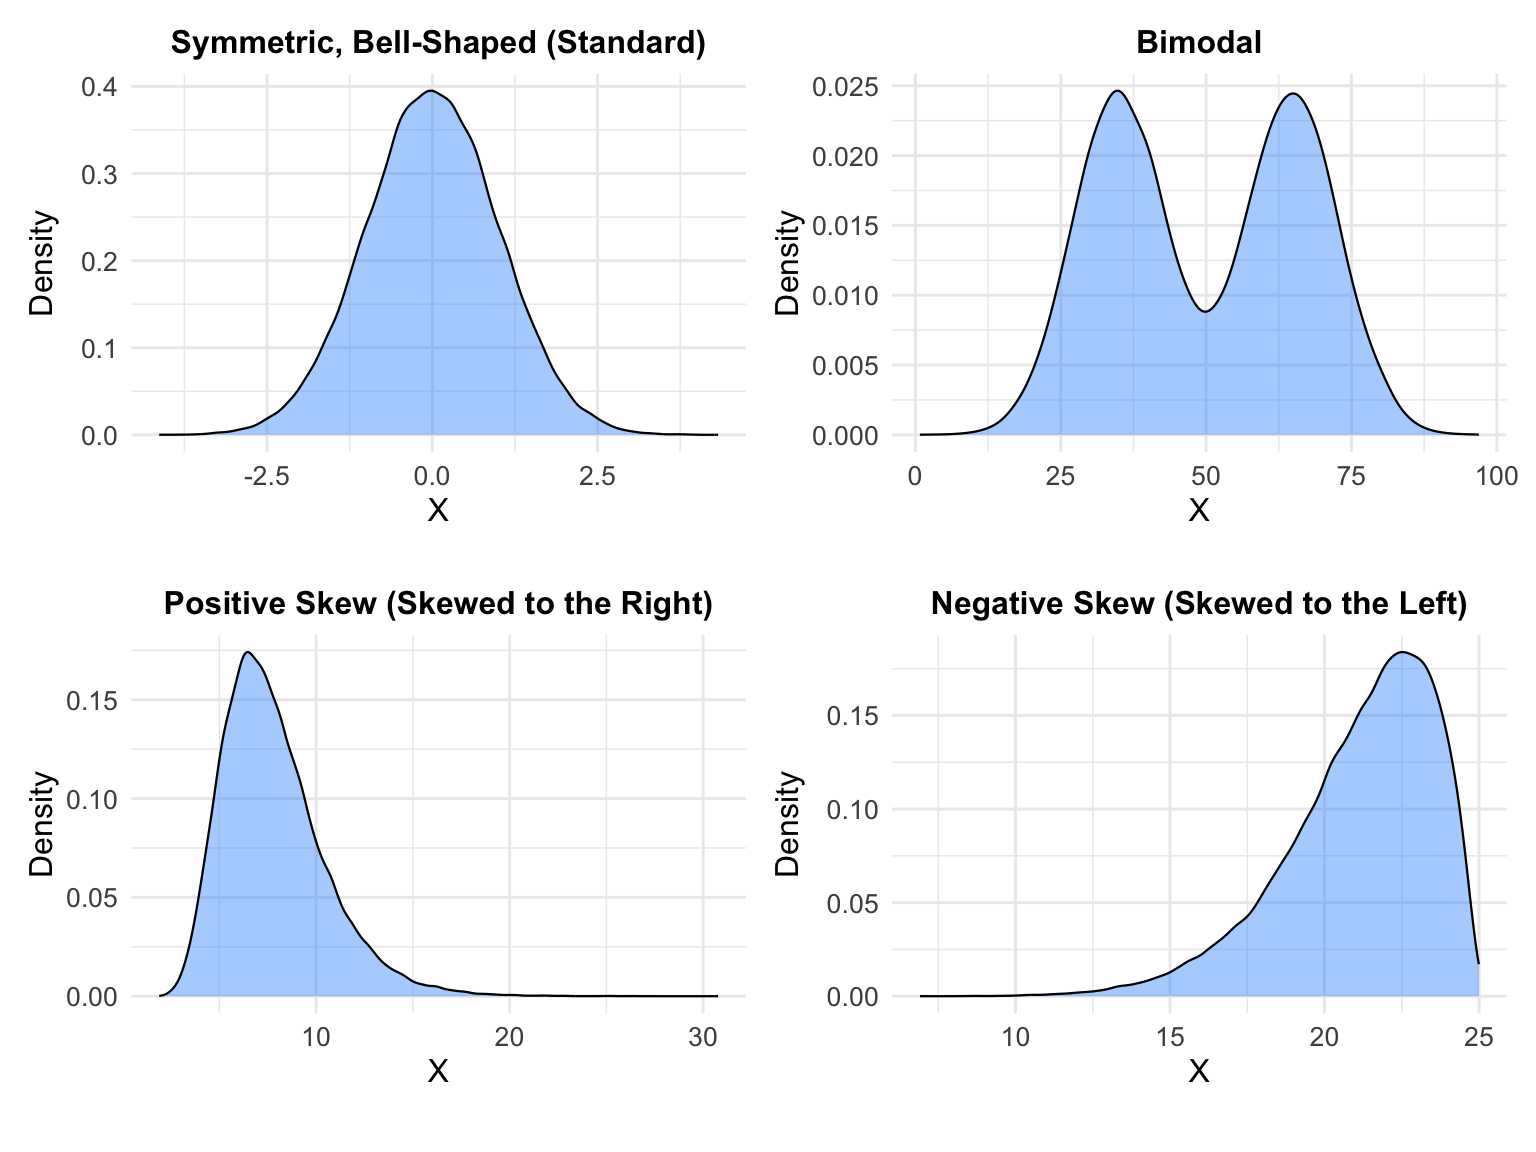
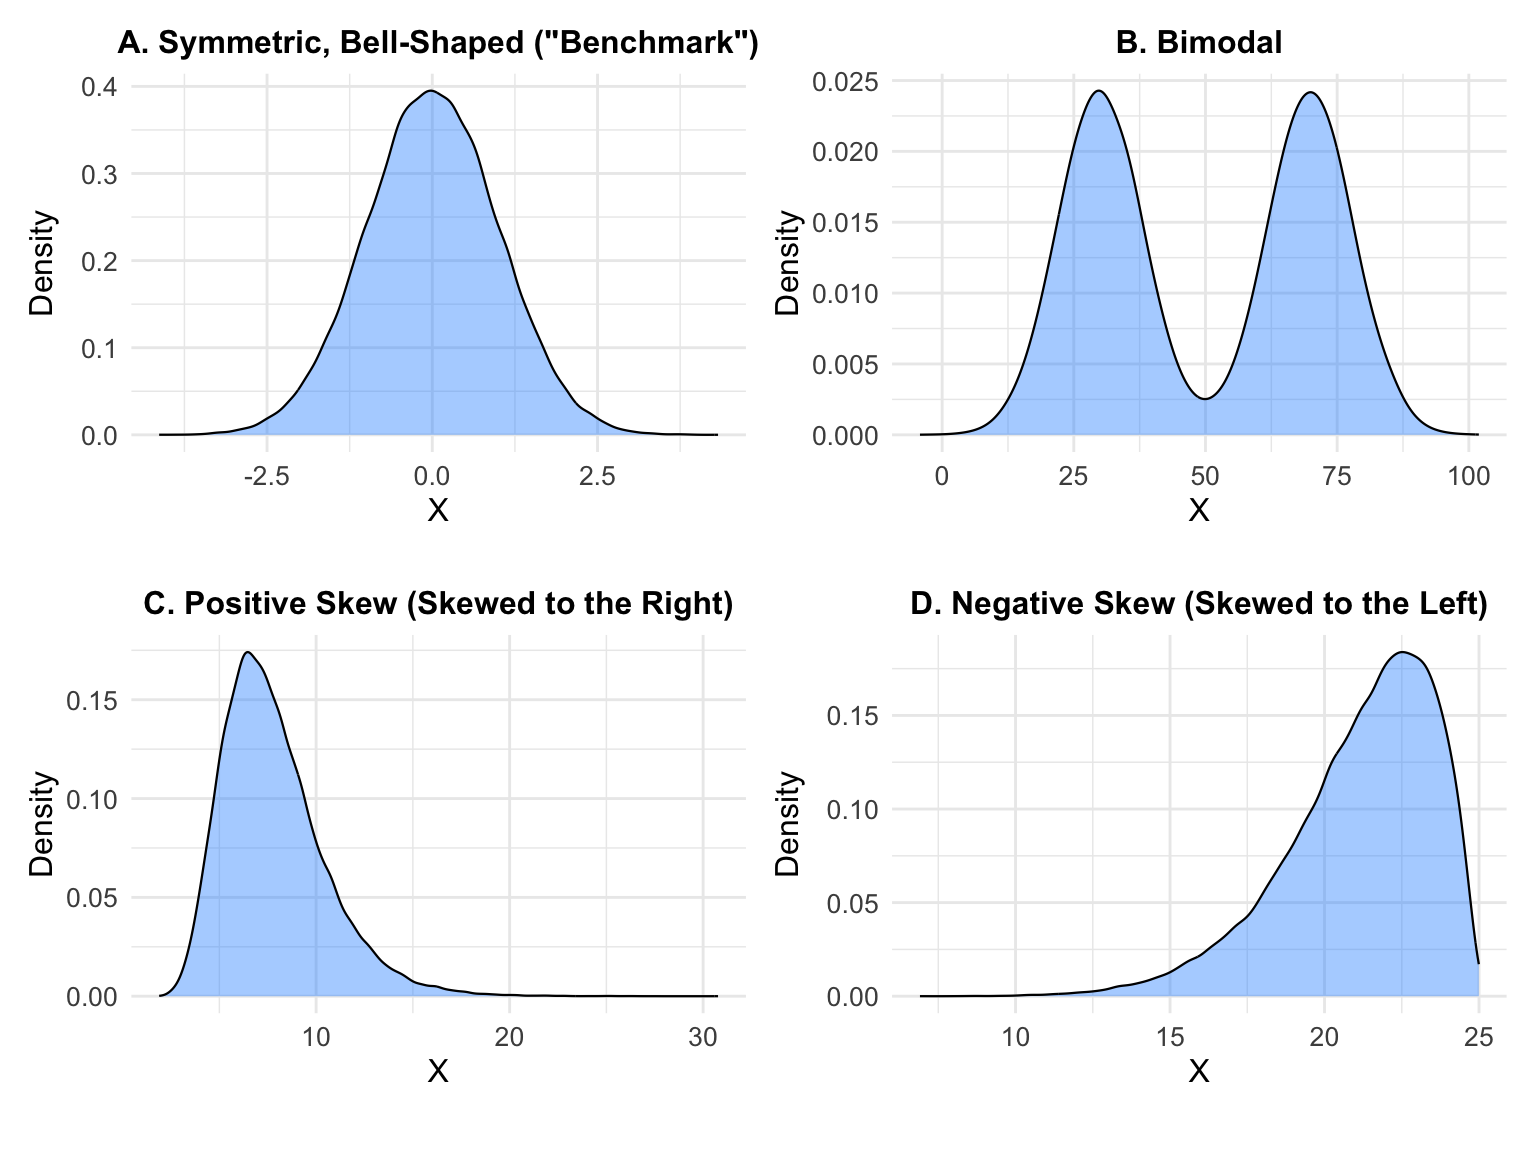
a22

diff --git a/dataps/dataviz.html b/dataps/dataviz.html
@@ -641,7 +641,7 @@ window.Quarto = {
 </section>
 <section id="sec-uni" class="level2" data-number="4.2">
 <h2 data-number="4.2" class="anchored" data-anchor-id="sec-uni"><span class="header-section-number">4.2</span> Univariate Graphical Displays</h2>
-<p>Univariate graphical displays provide a visual means of describing a variable’s <em>central tendency</em> and <em>dispersion</em>, or <em>distribution</em>. We will eventually link these visual descriptions with more formal statistical descriptions in <a href="descriptive.html" class="quarto-xref"><span>Chapter 6</span></a>. Researchers want to summarize variables of interest both as a way of understanding those variables generally and also for reasons connected to appropriate ways to examine variables with more formal statistical procedures. Thus, data visualization facilitates appropriate statistical analysis. As I will discuss in greater detail, univariate graphs are also directly connected to <em>levels of measurement</em> (à la <a href="intro.html#sec-lom" class="quarto-xref"><span>Section 2.2.3</span></a>) both in terms of the foundations for what type of graph to use and the implications for types of information we want to report and statistical analyses we want to conduct.</p>
+<p>Univariate graphical displays provide a visual means of describing a variable’s <em>central tendency</em> and <em>dispersion</em>, or <em>distribution</em>. We will eventually link these visual descriptions to more formal statistical descriptions in <a href="descriptive.html" class="quarto-xref"><span>Chapter 6</span></a>. Researchers want to summarize variables of interest both as a way of understanding those variables generally and also for reasons connected to appropriate ways to examine variables with formal statistical procedures. Thus, data visualization facilitates appropriate statistical analysis. As I will discuss in greater detail, univariate graphs are also directly connected to <em>levels of measurement</em> (à la <a href="intro.html#sec-lom" class="quarto-xref"><span>Section 2.2.3</span></a>) both in terms of the foundations for what type of graph to use and the implications for types of information we want to report and statistical analyses we want to conduct.</p>
 <section id="dispersion" class="level3" data-number="4.2.1">
 <h3 data-number="4.2.1" class="anchored" data-anchor-id="dispersion"><span class="header-section-number">4.2.1</span> Dispersion</h3>
 <p>Dispersion describes how spread out or close together observations are on values of the variable. Many researchers will also describe dispersion relative to the central tendency, or the average value. Are many of the observations tightly packed around the average value or are they widely dispersed around the mean? This diserpsion can also communicate how informative the central tendency is as a generalization. The more dispersion, the less informative a central tendency’s generalization is. The lower the dispersion, the more informative the generalization is.</p>
@@ -688,7 +688,9 @@ window.Quarto = {
 </div>
 <p>First, the left graph is the one that we analyzed earlier (“mynorm”). The right graph is based a second random number I simulated using the code above. Instead of a standard deviation of 1, I specified a standard deviation of 2. Thus, this variable is a random variable derived from a normal distribution with mean=0 and standard deviation=2. By definition, we know that this second variable will have a higher degree of dispersion. From the “rules of standard deviation” (that we will discuss in <a href="descriptive.html" class="quarto-xref"><span>Chapter 6</span></a>), we know that 95% of all observations are within about 2 standard deviations from the mean. In the left graph, that means 95% of observations are <span class="math inline">\(\pm\)</span> 2 units from the mean (between -2 and 2, since the mean = 0). In the right graph, 95% of the observations are <span class="math inline">\(\pm\)</span> 4 units from the mean (between -4 and 4).</p>
 <p>Comparing the graphs brings these comparisons to “visual life.” The left graph is a “high and tight” distribution, where observations are packed around the mean and many observations are at or very close to the mean value (of 0). The right graph is “lower and flatter,” where observations are more spread out around a wider range of the “score” variable. Note that much fewer observations at or near the mean vis-à-vis the low height of the curve at and around the mean. The high and tight, low-dispersion left grahp also shows that the mean is more informative generalization of the “score” variable than the low and flat, high-dispersion graph on the right.</p>
-<p>Though these graphs differ in the amount of dispersion, they share another key feature of what we want to visualize in univariate graphs: Whether or not the variable’s distribution is symmetric, bell-shaped, and “single-peaked.” In many ways, univariate data visualization centers on ascertaining whether our univariate distribution deviates from such a symmetric, bell-shaped, and single peaked distribution like those above. Here are three such common deviations compared to the “standard” bell-shaped distribution:</p>
+<p>Another way to talk about these variations in dispersion is in terms of “homogeneity” and “hetergeneity.” The left graph shows a much more homogeneous set of observations on this characteristic (“score”); many people tend to resemble each other. The right graph shows more heterogeneity; people are generally quite different from each other on this characteristic.</p>
+<p>Though these graphs differ in the amount of dispersion, they share a key feature of what we want to visualize in univariate graphs: Whether or not the variable’s distribution is symmetric, bell-shaped, and “single-peaked.” In many ways, univariate data visualization centers on ascertaining whether our univariate distribution deviates from such a symmetric, bell-shaped, and single peaked distribution like those above. The graphs below show three such common deviations compared to the “standard” bell-shaped distribution.</p>
+<p>Graph A provides a “benchmark” for comparison — the distribution is bell-shaped, symmetric, and “single-peaked,” or unimodal. This last aspect means that there’s just one central tendency. By benchmark, I do not mean that this is an “ideal” or desirable distribution to have for your own variables. In fact, variables rarely resemble exactly such a well-behaved distribution. Data can be messy. However, the properties I have discussed surrounding this distribution provide key points of comparison and discussion when describing a variable.</p>
 <div class="cell" data-layout-align="center">
 <div class="cell-output-display">
 <div class="quarto-figure quarto-figure-center">
@@ -698,9 +700,65 @@ window.Quarto = {
 </div>
 </div>
 </div>
+<p>Graph B shows one important deviation from the normal distribution in graph A: It is a bimodal distribution. Instead of having just one central tendency, it has two. In politics, for instance, we are often interested in the distribution of voters’ policy preferences across policy issues like immigration, gun control, economics, abortion rights, and the environment. Graph A depicts a situation where there is <em>public consensus</em> around a more moderate policy position. It suggests a consensus could emerge between Democrats and Republicans on a compromise.</p>
+<p>Graph B, however, shows the absence of consensus: It depicts <em>polarization</em> on an underlying issue, with two groups — Democrats and Republicans — advancing very different policy preferences on an issue. Very few people take a middle position, meaning compromise is unlikely. In American politics, we often say that this is recipe for “gridlock” in Congress or other settings. Beyond this example, a bimodal distribution suggests the presence of distinct groupings of individuals. We may see this in approval ratings or candidate evaluations, where there may be one group that is highly approving of a candidate or policy and another that is disapproving. Some will intepret such graphs as saying the public is of “two minds.”</p>
+<p>Graphs C and D display “skewed” variables. Skewness is a clear deviation from graph A’s “symmetry” property. Graph C shows that the mass of observations is tilted to the lower end of X, and there small amounts of observations at very high values of X. These “outliers” at the high end (the “extremes”) are what generate the skewness. Graph C is thus called a “positively skewed” variable, or “skewed to the right.” This latter description may initially confuse readers — after all, the mass of observations is shifted to the “left.” But the “skewed to the right” is describing the direction of the skewness as in the above description of how the more high-value outliers on the “right” side (or high end of X) are generating the skewness. Income or GDP measures are classic positively skewed variables. Imagine Graph C describes something like household income in the United States. The mass of individuals will be packed around some more typical value but there will be many high-income and then ultra-wealthy individuals at the very high ends. These outliers pull that right tail out to high ends. There are very few people at that high end, but we cannot just cut them off.</p>
+<p>Graph D presents the opposite direction of skewness: Negative skew, or skewed to the left. Here, the mass of observations are tilted to the right, with the more extreme outlier observations skewing the distribution to the left, on the low end X. An example of a negatively skewed variable is human lifespan, or age of death, around the world. In today’s age, life expectancy represents the typical age (central tendency) people will live to. If worldwide life expectancy is around 75 years of age, there are lots of observations that will be packed around that central tendency. However, we know that some people defy life expectancy and die young due to health problems or untimely accidents. Those individuals low on X are the outliers that skew the variable.</p>
+<p>The ultimate value of data visualization is the ability to diagnose the nature of a variable’s distribution before one begins doing statistical analysis on that variable or analysis in conjunction with another variable. The nature of a variable’s dispersion and distribution essentially dictates how we interpret central tendency (as <a href="descriptive.html" class="quarto-xref"><span>Chapter 6</span></a> will discuss in greater detail). Moreover, for some variables (like in graphs B-D), it makes more sense to describe the variable in terms of dispersion and distribution <em>first</em> before describing its central tendency. If one has a variable with a bimodal distribution, one should describe it that way first. That’s the key characteristic of the variable that one wants to communicate. Data visualization gives us that interpretation. Same with skewness: The first thing we want to say about graph C is that it is positively skewed.</p>
+<p>These descriptions set up a critical step in describing a skewed variable’s central tendency and dispersion, where one wants to think of skewed variables in terms of percentiles: The median, or 50th percentile, as well as the 25th and 75th percentiles for dispersion. These percentiles are more “immune” from the skewness induced by extreme values and outliers, whereas skewness directly affects statistics like the mean and standard deviation. Once again, <a href="descriptive.html" class="quarto-xref"><span>Chapter 6</span></a> will cover these topics in greater depth.</p>
 </section>
 <section id="univariate-graphs-and-levels-of-measurement" class="level3" data-number="4.2.2">
 <h3 data-number="4.2.2" class="anchored" data-anchor-id="univariate-graphs-and-levels-of-measurement"><span class="header-section-number">4.2.2</span> Univariate Graphs and Levels of Measurement</h3>
+<p>Let’s now dive into types of univariate graphs used to describe variables. Importantly, the selection of the graph to use is directly connected to levels of measurement. For example, the density plots from above are clearly most appropriate for interval/continuous variables. It would make zero sense to do a density plot for a nominal (unordered) variable with 4 or 5 discrete categories. It <em>may</em> make sense, under certain circumstances, to do density plots for ordinal variables with several categories — these variables can sometimes be in a gray area.</p>
+<p>The table below provides a summary of the univariate graphs we will examine in this section and a description of what types of variables for which they are most appropriate (based on levels of measurement).</p>
+<center>
+<div id="tbl-univ" class="table-striped table-hover table-bordered table-sm column quarto-float quarto-figure quarto-figure-center anchored" style="width:70%;">
+<figure class="quarto-float quarto-float-tbl figure">
+<figcaption class="quarto-float-caption-top quarto-float-caption quarto-float-tbl" id="tbl-univ-caption-0ceaefa1-69ba-4598-a22c-09a6ac19f8ca">
+Table&nbsp;4.1: <strong>Summary of Univariate Graphs</strong>
+</figcaption>
+<div aria-describedby="tbl-univ-caption-0ceaefa1-69ba-4598-a22c-09a6ac19f8ca">
+<table class="table-striped table-hover table-bordered table-sm column small caption-top table">
+<colgroup>
+<col style="width: 30%">
+<col style="width: 40%">
+<col style="width: 30%">
+</colgroup>
+<thead>
+<tr class="header">
+<th style="text-align: left;">Univariate Graph</th>
+<th style="text-align: left;">Command (<code>geom_</code>)</th>
+<th style="text-align: left;">Level of Measurement</th>
+</tr>
+</thead>
+<tbody>
+<tr class="odd">
+<td style="text-align: left;">Density plot</td>
+<td style="text-align: left;"><code>geom_density</code></td>
+<td style="text-align: left;">Interval</td>
+</tr>
+<tr class="even">
+<td style="text-align: left;">Histogram</td>
+<td style="text-align: left;"><code>geom_histogram</code></td>
+<td style="text-align: left;">Interval</td>
+</tr>
+<tr class="odd">
+<td style="text-align: left;">Boxplot</td>
+<td style="text-align: left;"><code>geom_boxplot</code></td>
+<td style="text-align: left;">Interval</td>
+</tr>
+<tr class="even">
+<td style="text-align: left;">Bar graph</td>
+<td style="text-align: left;"><code>geom_bar</code> or <code>geom_col</code></td>
+<td style="text-align: left;">Ordinal or nominal</td>
+</tr>
+</tbody>
+</table>
+</div>
+</figure>
+</div>
+</center>
+<!-- Show example of the House of Representatives. -->
 </section>
 </section>
 <section id="bivariate-graphical-displays" class="level2" data-number="4.3">

diff --git a/dataps/index.html b/dataps/index.html
@@ -6,7 +6,7 @@
 
 <meta name="viewport" content="width=device-width, initial-scale=1.0, user-scalable=yes">
 
-<meta name="dcterms.date" content="2026-04-20">
+<meta name="dcterms.date" content="2026-04-22">
 
 <title>Data Analysis and Statistics for Political Science</title>
 <style>
@@ -228,7 +228,7 @@ ul.task-list li input[type="checkbox"] {
     <div>
     <div class="quarto-title-meta-heading">Published</div>
     <div class="quarto-title-meta-contents">
-      <p class="date">April 20, 2026</p>
+      <p class="date">April 22, 2026</p>
     </div>
   </div>
   
